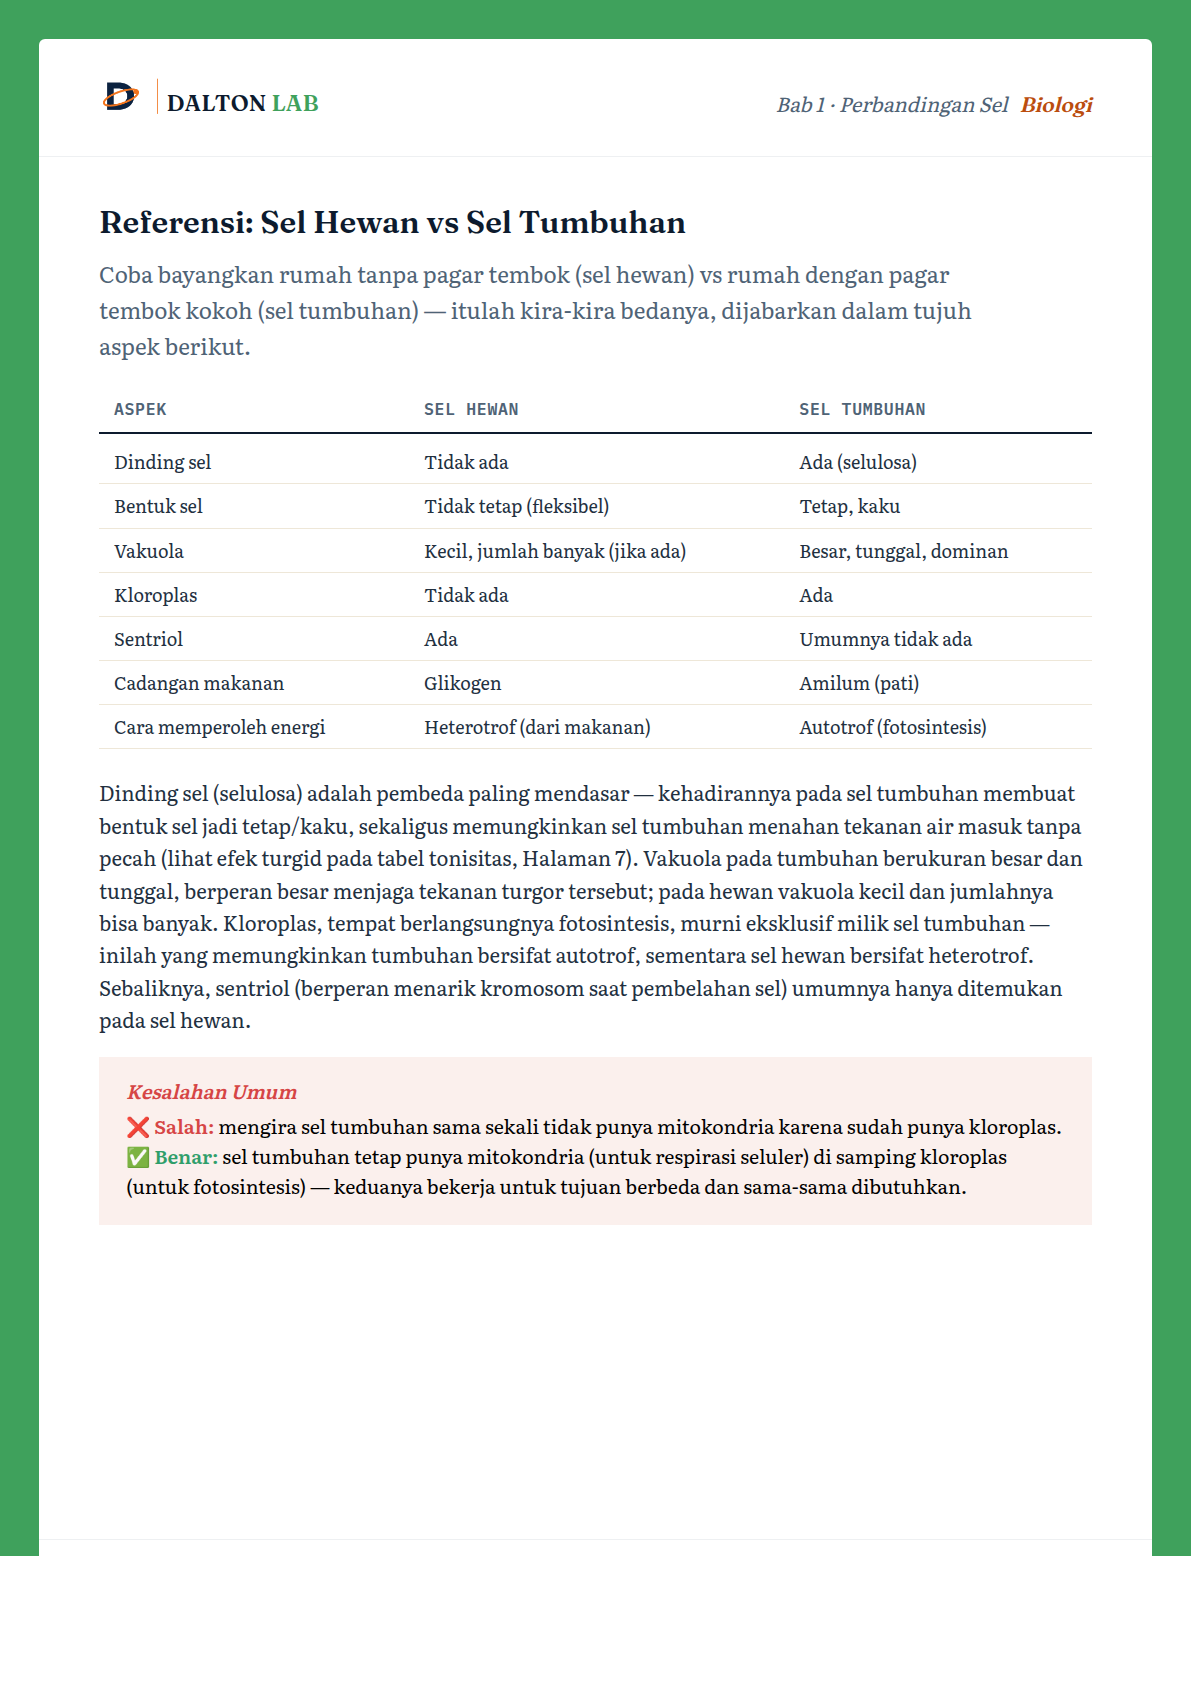
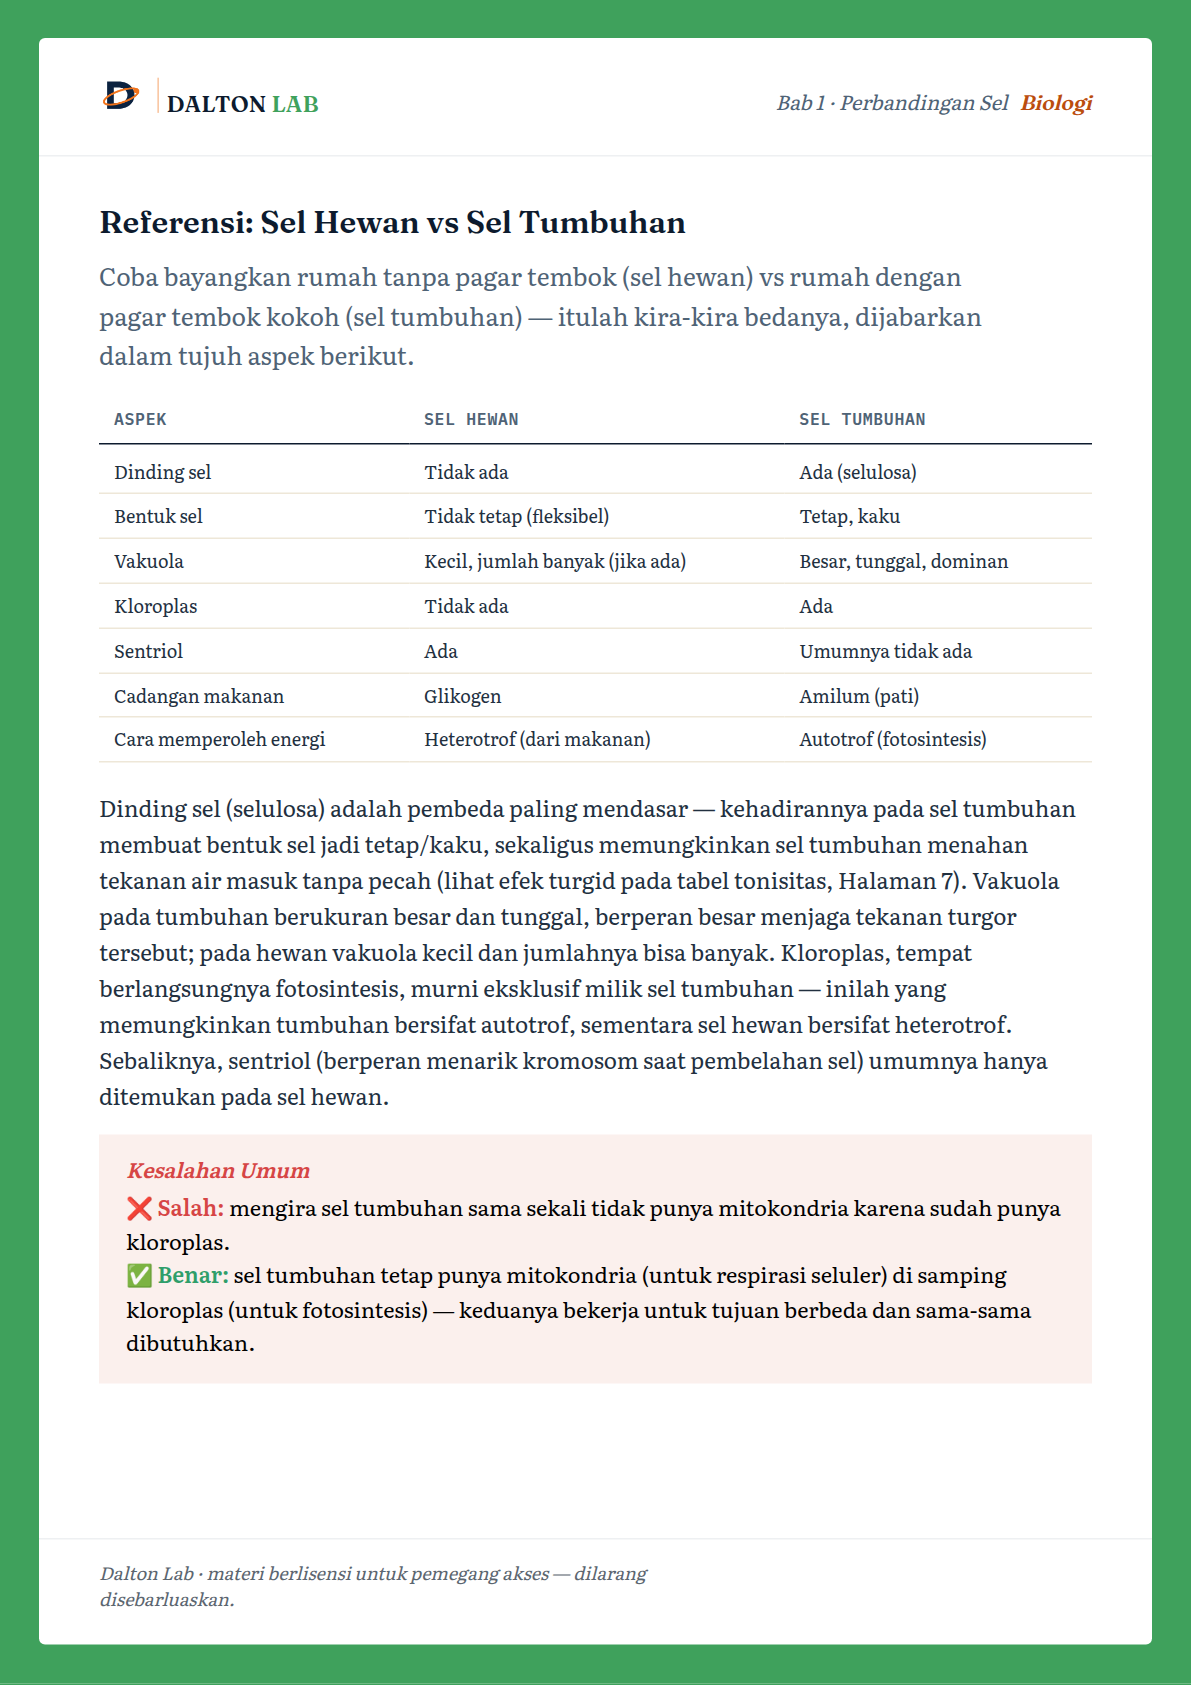
Bump PDF companion body-text font sizes for readability, fix biologi p.2 overflow
Body-text/lead/list/callout font sizes were noticeably small for reading
at length (13-15px range at native page resolution). Bumped them ~10-15%
across both Ekonomi and Biologi PDF companions and the shared reference
template, then re-rendered all 22 pages via a Playwright element-screenshot
pass (more robust than a fixed-viewport CLI screenshot — captures each
.pdf-page element's own box regardless of anything before/after it).

Measuring every page's .page-body scrollHeight vs clientHeight (not just
eyeballing the render) caught one real regression from the font bump:
Biologi bab1 page 2 (Sejarah Penemuan Sel) overflowed by ~60px, clipping
the closing callout box. Fixed with a new `dense` page-body modifier
(tighter paragraph/callout spacing, scoped to that one page) rather than
cutting content or special-casing the font size.

Also investigated the reported "green border cut off at the bottom" bug
on the live PDF viewer. Confirmed via repeated headless-Chromium repro
that the committed PNGs themselves are always intact (verified at native
resolution and by direct file inspection) — the cutoff is a live paint
bug in the browser when the image is displayed scaled down inside
.pdf-viewer-stage, reproducible with plain <img> and even <canvas>,
independent of overflow/border-radius/object-fit, and flaky rather than
deterministic. Root cause sits in the browser's graphics pipeline, not
in our CSS/markup. Added the standard mitigation for this bug class in
[…]

diff --git a/content-private/biologi/bab1-sel.pdf-pages.html b/content-private/biologi/bab1-sel.pdf-pages.html
@@ -85,15 +85,22 @@
   h1.page-title{font:700 34px/1.15 'Fraunces',serif;color:var(--navy);margin:0 0 6px;}
   p.dek{font:italic 400 14.5px/1.4 'Literata',serif;color:var(--orange-ink);margin:0 0 18px;}
   h2.section-title{font:600 21px/1.25 'Fraunces',serif;color:var(--navy);margin:0 0 10px;}
-  p.lead{font:400 15px/1.6 'Literata',serif;color:var(--slate);margin:0 0 18px;max-width:600px;}
-  p.body-text{font:400 13.5px/1.6 'Literata',serif;color:#22303f;margin:0 0 14px;}
+  p.lead{font:400 16.5px/1.6 'Literata',serif;color:var(--slate);margin:0 0 18px;max-width:600px;}
+  p.body-text{font:400 15px/1.6 'Literata',serif;color:#22303f;margin:0 0 14px;}
   ul.learn-list{margin:0 0 20px;padding-left:20px;}
-  ul.learn-list li{font:400 14.5px/1.65 'Literata',serif;color:#22303f;margin-bottom:6px;}
+  ul.learn-list li{font:400 16px/1.65 'Literata',serif;color:#22303f;margin-bottom:6px;}
 
-  .callout{padding:16px 18px;margin:0 0 20px;font:400 13px/1.55 'Literata',serif;}
+  /* .dense — page-body modifier for pages whose text volume needs slightly
+     tighter spacing to fit one page at the standard font size (see Page 2). */
+  .page-body.dense h2.section-title{margin-bottom:6px;}
+  .page-body.dense p.lead{margin-bottom:10px;}
+  .page-body.dense p.body-text{margin-bottom:8px;line-height:1.5;}
+  .page-body.dense .callout{padding-top:12px;padding-bottom:12px;}
+
+  .callout{padding:16px 18px;margin:0 0 20px;font:400 14.5px/1.55 'Literata',serif;}
   .callout.mistake{background:#fbf0ed;}
   .callout.mistake .label{color:var(--danger);}
-  .callout .label{display:block;font:italic 600 13px/1 'Literata',serif;margin-bottom:7px;}
+  .callout .label{display:block;font:italic 600 14px/1 'Literata',serif;margin-bottom:7px;}
   .callout .wrong{color:var(--danger);font-weight:600;}
   .callout .right{color:var(--success);font-weight:600;}
 
@@ -166,7 +173,7 @@
       <div class="brand"><img src="../../public/assets/img/logo.png" alt="Dalton Lab"><span class="brand-word">DALTON <span>LAB</span></span></div>
       <div class="meta"><span class="chapter-tag">Bab 1 &middot; Sejarah Sel</span><span class="subject-chip">Biologi</span></div>
     </div>
-    <div class="page-body">
+    <div class="page-body dense">
       <h2 class="section-title">Sejarah Penemuan Sel</h2>
       <p class="lead">Empat ilmuwan, tersebar di rentang hampir 200 tahun, yang perlahan-lahan menyusun apa yang sekarang kita kenal sebagai Teori Sel.</p>
       <p class="body-text"><b>Robert Hooke (1665)</b> adalah orang pertama yang mengamati sel, meski ia sendiri tidak sadar sedang melihat unit dasar kehidupan. Menggunakan mikroskop sederhana rancangannya sendiri, ia mengintip sayatan tipis gabus (kulit kayu ek yang sudah mati) dan melihat deretan ruang-ruang kosong berdinding, seperti kamar-kamar kecil berjejer. Ia menamainya "cellula", bahasa Latin untuk "kamar kecil" — dari sinilah istilah "sel" berasal. Penting dicatat: yang sebenarnya dilihat Hooke bukan sel hidup, melainkan dinding sel gabus yang sudah mati, jadi ia hanya melihat "kerangka kosong"-nya saja.</p>

diff --git a/content-private/ekonomi/bab1-badan-usaha.pdf-pages.html b/content-private/ekonomi/bab1-badan-usaha.pdf-pages.html
@@ -86,26 +86,26 @@
   h1.page-title{font:700 34px/1.15 'Fraunces',serif;color:var(--navy);margin:0 0 6px;}
   p.dek{font:italic 400 14.5px/1.4 'Literata',serif;color:var(--orange-ink);margin:0 0 18px;}
   h2.section-title{font:600 21px/1.25 'Fraunces',serif;color:var(--navy);margin:0 0 10px;}
-  p.lead{font:400 15px/1.6 'Literata',serif;color:var(--slate);margin:0 0 18px;max-width:600px;}
+  p.lead{font:400 16.5px/1.6 'Literata',serif;color:var(--slate);margin:0 0 18px;max-width:600px;}
   ul.learn-list{margin:0 0 20px;padding-left:20px;}
-  ul.learn-list li{font:400 14.5px/1.65 'Literata',serif;color:#22303f;margin-bottom:6px;}
+  ul.learn-list li{font:400 16px/1.65 'Literata',serif;color:#22303f;margin-bottom:6px;}
 
   .formula-box{border-top:1px solid #e6dfd0;border-bottom:1px solid #e6dfd0;padding:20px 2px;margin:0 0 22px;}
   .formula-box .label{font:italic 500 14px/1 'Literata',serif;color:var(--orange-ink);margin-bottom:10px;display:block;}
   .formula-box .katex{font-size:1.05em;}
-  .formula-box .var-def{font:400 12.5px/1.55 'Literata',serif;color:var(--slate);margin-top:10px;}
+  .formula-box .var-def{font:400 13.5px/1.55 'Literata',serif;color:var(--slate);margin-top:10px;}
   .formula-box .var-def b{font-family:'IBM Plex Mono',monospace;font-weight:500;color:#22303f;}
 
   .example-box{border-top:1px solid #e6dfd0;padding:18px 2px 4px;margin:0 0 22px;}
   .example-box .label{font:italic 500 14px/1 'Literata',serif;color:var(--navy);margin-bottom:12px;display:block;}
-  .example-box p.setup{font:400 13.5px/1.6 'Literata',serif;color:#22303f;margin:0 0 10px;}
+  .example-box p.setup{font:400 15px/1.6 'Literata',serif;color:#22303f;margin:0 0 10px;}
   .example-box ol{margin:0;padding-left:18px;}
-  .example-box li{font:400 13.5px/1.6 'Literata',serif;color:#22303f;margin-bottom:8px;}
+  .example-box li{font:400 15px/1.6 'Literata',serif;color:#22303f;margin-bottom:8px;}
 
-  .callout{padding:16px 18px;margin:0 0 20px;font:400 13px/1.55 'Literata',serif;}
+  .callout{padding:16px 18px;margin:0 0 20px;font:400 14.5px/1.55 'Literata',serif;}
   .callout.mistake{background:#fbf0ed;}
   .callout.mistake .label{color:var(--danger);}
-  .callout .label{display:block;font:italic 600 13px/1 'Literata',serif;margin-bottom:7px;}
+  .callout .label{display:block;font:italic 600 14px/1 'Literata',serif;margin-bottom:7px;}
   .callout .wrong{color:var(--danger);font-weight:600;}
   .callout .right{color:var(--success);font-weight:600;}
 

diff --git a/public/assets/pdf-template/page-template.html b/public/assets/pdf-template/page-template.html
@@ -141,19 +141,19 @@
     margin:0 0 12px;
   }
   p.lead{
-    font:400 15.5px/1.65 'Literata',serif;
+    font:400 16.5px/1.65 'Literata',serif;
     color:var(--slate);
     margin:0 0 20px;
     max-width:560px;
   }
   p.body-text{
-    font:400 14.5px/1.7 'Literata',serif;
+    font:400 15px/1.7 'Literata',serif;
     color:#22303f;
     margin:0 0 16px;
   }
   ul.learn-list{margin:0 0 20px;padding-left:20px;}
   ul.learn-list li{
-    font:400 14.5px/1.7 'Literata',serif;
+    font:400 16px/1.7 'Literata',serif;
     color:#22303f;
     margin-bottom:6px;
   }
@@ -172,7 +172,7 @@
   }
   .formula-box .katex{font-size:1.15em;}
   .formula-box .var-def{
-    font:400 13px/1.6 'Literata',serif;
+    font:400 14.5px/1.6 'Literata',serif;
     color:var(--slate);
     margin-top:12px;
   }
@@ -195,7 +195,7 @@
   }
   .example-box ol{margin:0;padding-left:20px;}
   .example-box li{
-    font:400 14px/1.7 'Literata',serif;
+    font:400 15.5px/1.7 'Literata',serif;
     color:#22303f;
     margin-bottom:10px;
   }
@@ -203,13 +203,13 @@
   .callout{
     padding:18px 20px;
     margin:0 0 24px;
-    font:400 13.5px/1.6 'Literata',serif;
+    font:400 14.5px/1.6 'Literata',serif;
   }
   .callout.mistake{background:#fbf0ed;}
   .callout.mistake .label{color:var(--danger);}
   .callout .label{
     display:block;
-    font:italic 600 13.5px/1 'Literata',serif;
+    font:italic 600 14px/1 'Literata',serif;
     margin-bottom:8px;
   }
   .callout .wrong{color:var(--danger);font-weight:600;}

diff --git a/public/assets/app.js b/public/assets/app.js
@@ -1638,8 +1638,17 @@ function initPdfViewers(root){
         const blob = await res.blob();
         if(currentObjectUrl) URL.revokeObjectURL(currentObjectUrl);
         currentObjectUrl = URL.createObjectURL(blob);
-        imgEl.onload = ()=>{ imgEl.style.opacity = '1'; };
         imgEl.src = currentObjectUrl;
+        // Decode fully off-screen (opacity still 0) before revealing, then force
+        // a reflow — some browsers can otherwise paint a scaled-down page image
+        // with the bottom portion missing on first paint (a real, if rare, bug
+        // seen in production). decode() + a forced reflow is the standard
+        // mitigation; if it still happens for a student, reloading the page
+        // fixes it immediately since it's a one-time paint glitch, not bad data.
+        (imgEl.decode ? imgEl.decode().catch(()=>{}) : Promise.resolve()).then(()=>{
+          void imgEl.offsetHeight;
+          requestAnimationFrame(()=>{ imgEl.style.opacity = '1'; });
+        });
         currentPage = n;
         pageNumEl.textContent = `Halaman ${currentPage} / ${pageCount}`;
         loadingEl.hidden = true;

diff --git a/content-private/ekonomi/bab1-badan-usaha.html b/content-private/ekonomi/bab1-badan-usaha.html
@@ -30,7 +30,7 @@
     <div class="pdf-viewer" data-pdf-subject="ekonomi" data-pdf-bab="bab1-badan-usaha">
       <div class="pdf-viewer-stage">
         <div class="pdf-viewer-loading">Memuat…</div>
-        <img class="pdf-viewer-img" alt="Halaman materi PDF" draggable="false" oncontextmenu="return false;">
+        <img class="pdf-viewer-img" alt="Halaman materi PDF" decoding="sync" draggable="false" oncontextmenu="return false;">
         <div class="pdf-viewer-watermark"></div>
       </div>
       <div class="pdf-viewer-controls">

diff --git a/content-private/biologi/bab1-sel.html b/content-private/biologi/bab1-sel.html
@@ -29,7 +29,7 @@
     <div class="pdf-viewer" data-pdf-subject="biologi" data-pdf-bab="bab1-sel">
       <div class="pdf-viewer-stage">
         <div class="pdf-viewer-loading">Memuat…</div>
-        <img class="pdf-viewer-img" alt="Halaman materi PDF" draggable="false" oncontextmenu="return false;">
+        <img class="pdf-viewer-img" alt="Halaman materi PDF" decoding="sync" draggable="false" oncontextmenu="return false;">
         <div class="pdf-viewer-watermark"></div>
       </div>
       <div class="pdf-viewer-controls">

diff --git a/CHAPTER_CONTENT_GUIDE.md b/CHAPTER_CONTENT_GUIDE.md
@@ -153,8 +153,8 @@ Read-only, rendered as images (not a native embed), with a student-identity wate
 **Filling the template and rendering — mechanical, but do it, don't stop at the spec:**
 1. Copy an existing chapter's `.pdf-pages.html` as a starting structure (same reasons as the CSS block above — don't rebuild the `<head>`/watermark-free page shell from scratch).
 2. Fill in each page's content from the spec, using only the classes from the table above.
-3. Render to page images with a headless-Chromium screenshot pass — the reusable script pattern is: for each `.pdf-page` block, build a standalone temp HTML doc (template head + that one block), then `chrome --headless=new --window-size=794,1123 --force-device-scale-factor=1.5 --screenshot=<subject>/<babN-slug>.pdf.<N>.png file://<temp>.html`. Output filenames must be exactly `{bab-slug}.pdf.{page number, 1-based}.png` in `content-private/{subject}/`, matching what `api/pdf-content.js` looks up.
-4. **Verify every page by actually reading the rendered image, not by estimating whether the content fits.** This is the single most repeated failure across both chapters built this way: dense content (a 2-column list + a table + a callout, or two medium tables stacked) reliably looks like it should fit on one `210mm×297mm` page and then silently clips at the bottom when actually rendered — the cut-off content is invisible in a quick glance, only visible if you open the image and read to the bottom. When in doubt, split into two pages rather than cramming; a 12-page PDF that's fully readable beats a 9-page one with two silently truncated pages.
+3. Render to page images with a headless-Chromium pass. Prefer **element screenshots over a fixed-viewport CLI screenshot**: open the whole filled `.pdf-pages.html` in one page load, select all `.pdf-page` elements, and screenshot each element directly (e.g. via Playwright: `page.$$('.pdf-page')` then `el.screenshot({path, ...})` per element, `deviceScaleFactor: 1.5` on the page/context to match the site's existing 1.5x-rendered pages). This captures exactly that element's own box regardless of anything before/after it in the document, sidestepping the fragile `chrome --window-size=794,1123 --screenshot=... file://<temp-one-page-doc>.html` pattern (a per-page temp file whose captured viewport can silently mismatch the page's actual laid-out height if the temp doc's `<body>` isn't margin/padding-free, cropping the bottom of the page). Output filenames must be exactly `{bab-slug}.pdf.{page number, 1-based}.png` in `content-private/{subject}/`, matching what `api/pdf-content.js` looks up.
+4. **Verify every page by actually reading the rendered image, not by estimating whether the content fits.** This is the single most repeated failure across both chapters built this way: dense content (a 2-column list + a table + a callout, or two medium tables stacked) reliably looks like it should fit on one `210mm×297mm` page and then silently clips at the bottom when actually rendered — the cut-off content is invisible in a quick glance, only visible if you open the image and read to the bottom. Don't just eyeball the image either — measure it: load the `.pdf-pages.html` in headless Chromium and read `.page-body`'s `scrollHeight` vs `clientHeight` for every page; any page where `scrollHeight > clientHeight` is silently clipping content that a screenshot alone can make easy to miss on a busy page. When in doubt, split into two pages rather than cramming; a 12-page PDF that's fully readable beats a 9-page one with two silently truncated pages. If a page is genuinely close but shouldn't be split, a `dense` modifier class on that page's `.page-body` (see `bab1-sel.pdf-pages.html` Page 2 for the pattern — tighter paragraph/callout margins and line-height, scoped to that one page only) can reclaim enough space without touching the font size or the content.
 
 **By subject:**
 - **Matematika, Fisika, Kimia** — equation-dense. Typeset via **LaTeX**, not plain text: proper fraction bars, aligned derivation steps, subscripts/superscripts, summation/integral notation. This is the actual reason the PDF path exists — the HTML page's inline KaTeX is fine for a formula or two, not for a full derivation or a page of worked problems.
